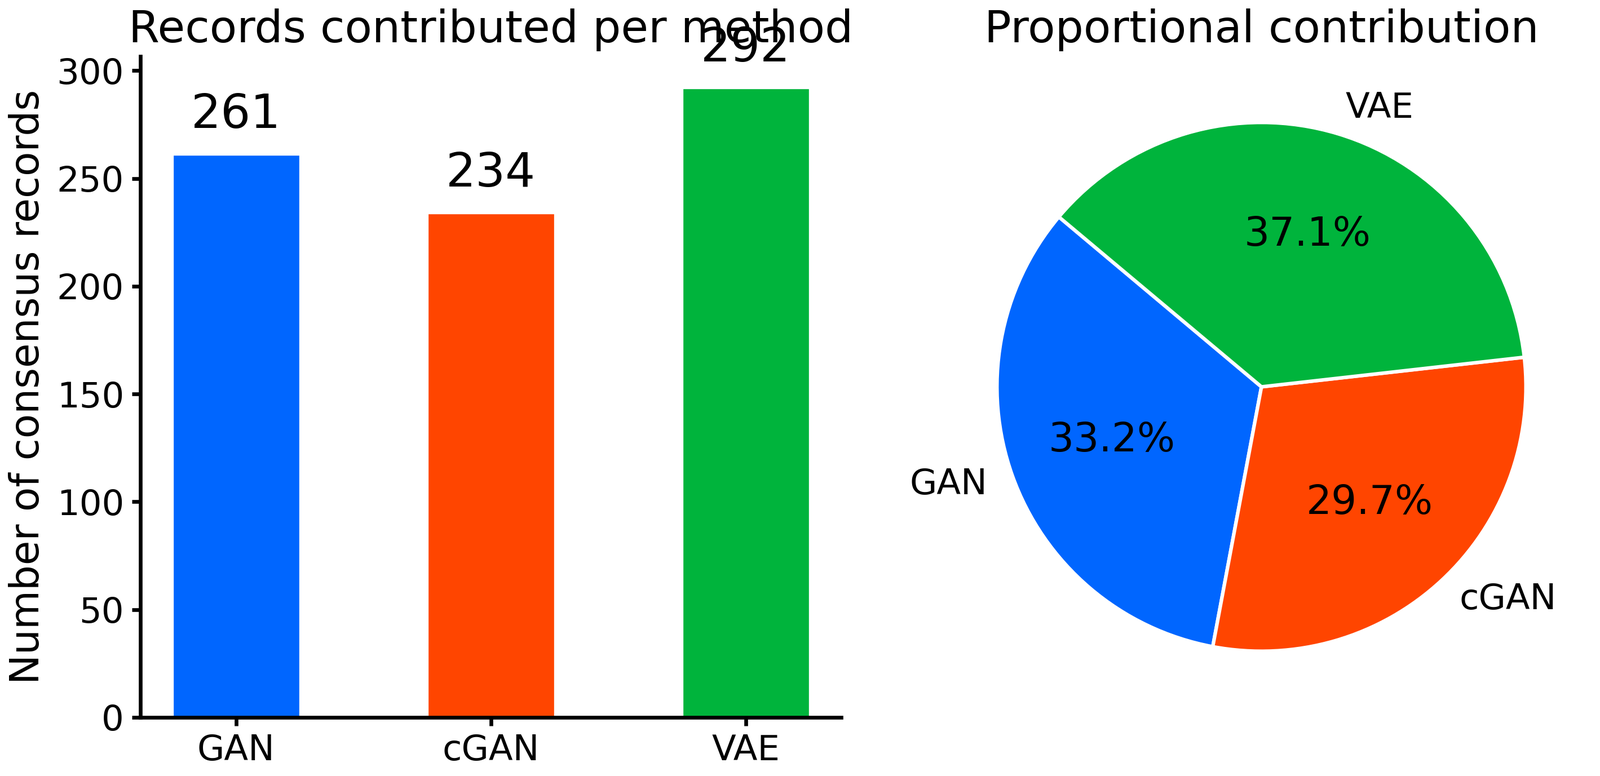
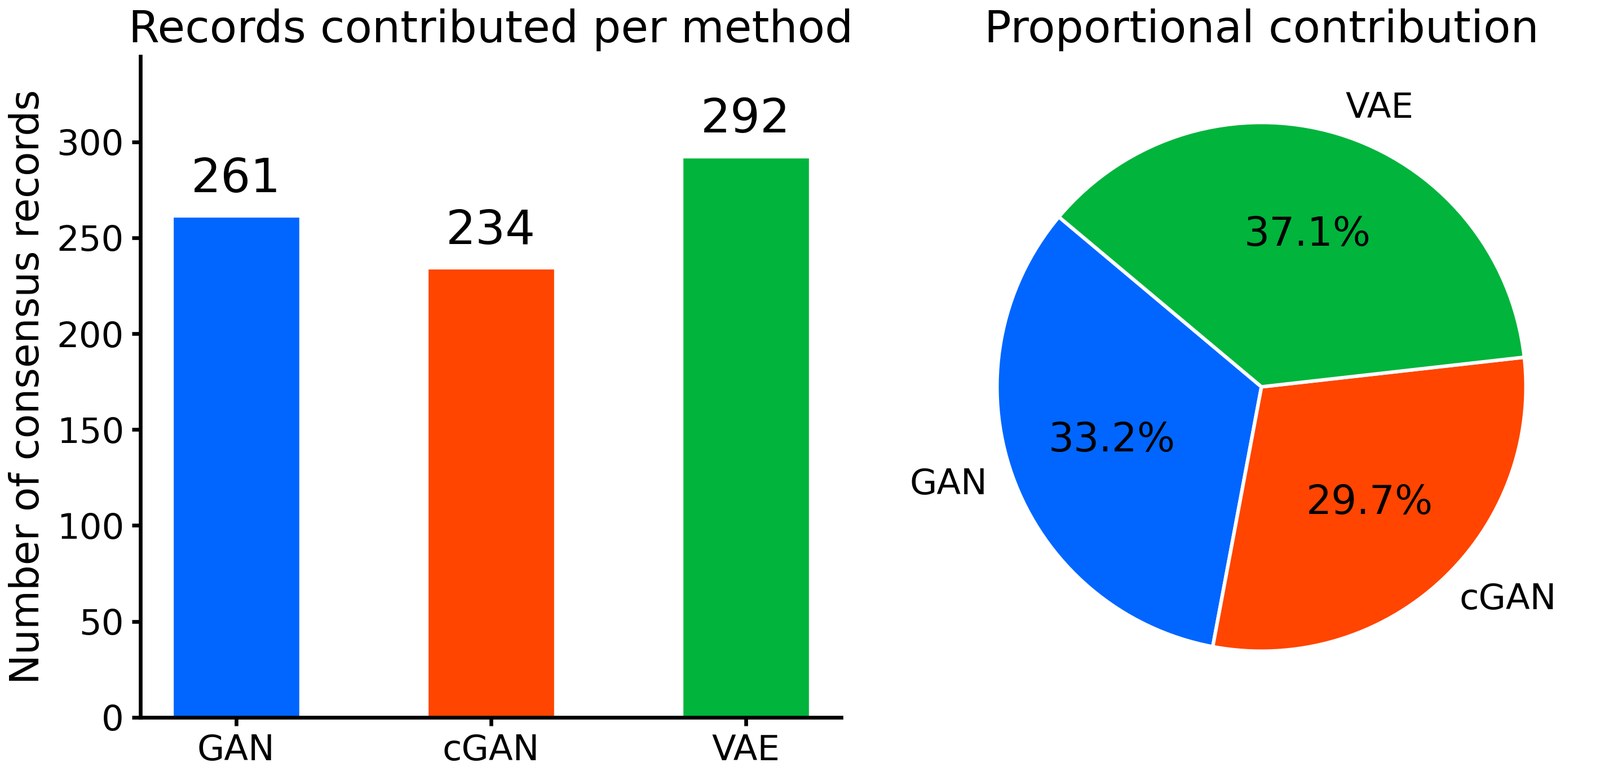
Add y-axis headroom so bar labels clear the axis frame

diff --git a/src/visualizations.py b/src/visualizations.py
@@ -383,6 +383,9 @@ def plot_consensus_distribution(source_counts):
                     str(v), ha="center", va="bottom", fontsize=10*_PRINT_SCALE)
     ax_bar.set_ylabel("Number of consensus records")
     ax_bar.set_title("Records contributed per method")
+    # Headroom above the tallest bar so its value label does not collide with
+    # the top y-tick or run over the axis frame.
+    ax_bar.set_ylim(0, max(counts) * 1.18)
 
     wedge_style = {"linewidth": 1.5, "edgecolor": "white"}
     ax_pie.pie(counts, labels=labels, colors=colors,
